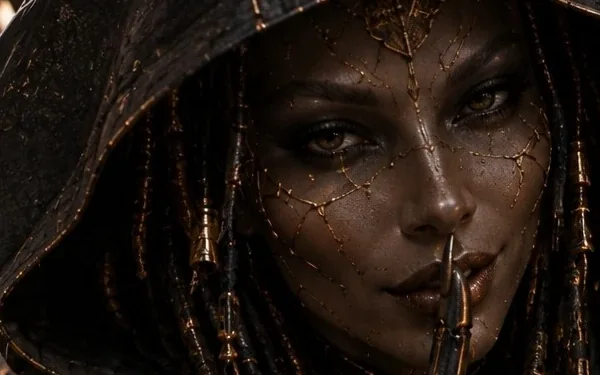
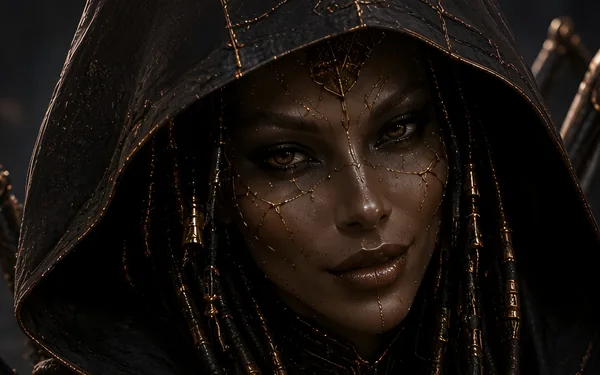
Tiroir des outils : pied fixe en bas (tâches, U*TTU, langue), liste qui défile seule, plus de trou après « Panorama 360° » ; portrait HD v2 d'Uttu dans le studio
- Tiroir (< 1024 px) : colonne flex tête / liste (overflow auto, marge basse) / pied avec fond et filet ; plus aucun chevauchement. Règle .u-drawer héritée (inset: 0) retirée : le tiroir s'ouvre à droite, sous le bouton menu.
- Menu Créer dans le tiroir : une famille = une liste (plus de colonne vide avec titre insécable).
- Accueil du studio : portrait HD v2 (sans doigt), 600/960 px en hauteur et 600/1200 px en large, srcset.
- e2e/tiroir-outils.spec.ts : 390×844, 844×390, 880×1024, haut/milieu/bas, cibles 44 px.

diff --git a/src/components/app/app.css b/src/components/app/app.css
@@ -46,7 +46,6 @@
 .u-mark { display: inline-flex; align-items: center; gap: 10px; min-height: 44px; color: var(--fg); }
 .u-top-tools { display: flex; align-items: center; gap: 6px; min-width: 0; }
 .u-tool-short { display: none; }
-.u-drawer-lang { display: none; }
 @media (max-width: 799px) {
   .u-top { flex-wrap: nowrap; gap: 8px; padding: 6px 10px; min-height: 56px; }
   .u-mark { gap: 6px; flex: 0 0 auto; }
@@ -57,7 +56,6 @@
   .u-tool-label, .u-tool-full { display: none; }
   .u-tool-short { display: inline; letter-spacing: .04em; }
   .u-coffre, .u-credit { min-width: 44px; justify-content: center; padding-inline: 10px; }
-  .u-drawer-lang { display: block; }
 }
 .u-credit { display: inline-flex; align-items: center; gap: 6px; min-height: 44px; padding: 8px 14px; border: 1px solid var(--u-line-strong); border-radius: var(--radius-control); background: transparent; }
 .u-credit strong { font: 600 14px/1 var(--font-mono); font-variant-numeric: tabular-nums; color: var(--fg); }
@@ -365,7 +363,6 @@
   .u-head h1 { font-size: 44px; }
   .u-board { grid-template-columns: repeat(auto-fit, minmax(min(100%, 300px), 1fr)); }
   .u-prise-grid { grid-template-columns: minmax(180px, 280px) minmax(0, 1fr); align-items: start; }
-  .u-drawer-panel { width: min(460px, 100%); margin-left: auto; height: 100%; max-height: 100%; border-radius: 0; border-left: 1px solid var(--u-line); }
   .u-grid { grid-template-columns: repeat(4, minmax(0, 1fr)); }
   .u-plateau { display: none; }
   .u-rail-coffre { display: none; }
@@ -401,11 +398,6 @@
 .u-person, .u-place { display: grid; gap: 10px; align-content: start; padding: 12px; border: 1px solid var(--u-line); border-radius: 12px; background: var(--surface); }
 .u-place[data-selected="true"] { border-color: var(--u-gold); }
 .u-pick-row small { color: var(--u-sand); font-size: 12px; letter-spacing: .08em; text-transform: uppercase; }
-.u-drawer { position: fixed; inset: 0; z-index: 70; display: flex; }
-.u-drawer-back { flex: 1 1 auto; min-width: 0; min-height: 44px; border: 0; background: rgba(15, 15, 17, .62); }
-.u-drawer-panel { width: 100%; height: 100%; overflow: auto; padding: 16px 18px calc(24px + var(--u-safe)); background: var(--surface); border-left: 1px solid var(--u-line); }
-.u-drawer-body { display: grid; gap: 22px; }
-.u-drawer-body h3 { margin: 0; }
 .u-decor-grid { display: grid; grid-template-columns: repeat(2, minmax(0, 1fr)); gap: 12px; }
 .u-decor-card { position: relative; display: grid; gap: 8px; align-content: start; padding: 8px; border: 1px solid var(--u-line); border-radius: 12px; background: var(--surface); }
 .u-decor-card[data-selected="true"] { border-color: var(--u-gold); box-shadow: inset 0 0 0 1px var(--u-gold); }
@@ -1583,8 +1575,10 @@ button.u-outil-card:focus-visible { outline: 2px solid var(--fg); outline-offset
 .u-palette-body a, .u-assistant-list a { display: grid; gap: 2px; min-height: 44px; padding: 8px 10px; border-radius: 10px; color: var(--fg); text-decoration: none; }
 .u-palette-body a:hover, .u-palette-body a:focus-visible, .u-assistant-list a:hover { background: var(--hover); outline: none; }
 .u-palette-body a span, .u-assistant-list a span { font-size: 12px; color: var(--fg-2); }
-.u-drawer { position: absolute; top: 0; right: 0; bottom: 0; width: min(360px, 92vw); display: grid; grid-template-rows: auto minmax(0, 1fr) auto; gap: 8px; padding: 12px; background: var(--bg); border-left: 1px solid var(--u-line); overflow-y: auto; }
-.u-drawer-head { display: flex; align-items: flex-start; justify-content: space-between; gap: 8px; }
+/* Drawer (below 1024 px): fixed head, the list scrolls on its own, the footer stays pinned at the bottom and never covers the list. */
+.u-drawer { position: absolute; top: 0; right: 0; bottom: 0; width: min(360px, 92vw); height: 100%; display: flex; flex-direction: column; background: var(--bg); border-left: 1px solid var(--u-line); overflow: hidden; }
+.u-drawer-head { flex: 0 0 auto; display: flex; align-items: flex-start; justify-content: space-between; gap: 8px; padding: 12px 12px 4px; }
+.u-drawer-nav { flex: 1 1 auto; min-height: 0; overflow-y: auto; overscroll-behavior: contain; -webkit-overflow-scrolling: touch; padding: 4px 12px 32px; scroll-padding-bottom: 32px; }
 .u-drawer-head .u-proj { flex: 1 1 auto; }
 .u-drawer-nav .u-top-links { flex-direction: column; align-items: stretch; }
 .u-drawer-nav .u-top-links > li > a, .u-drawer-nav .u-dd-toggle { width: 100%; justify-content: space-between; font-size: 16px; }
@@ -1597,8 +1591,13 @@ button.u-outil-card:focus-visible { outline: 2px solid var(--fg); outline-offset
 .u-lien.u-fold .u-avance-body { display: grid; gap: 10px; padding-bottom: 12px; }
 .u-lien.u-fold .u-avance-body[hidden] { display: none; }
 .u-empty .u-primary { min-height: 44px; display: inline-flex; align-items: center; }
-.u-drawer-foot { display: grid; gap: 8px; }
-.u-drawer-foot .u-secondary { min-height: 44px; }
+.u-drawer-foot { flex: 0 0 auto; position: relative; z-index: 1; display: flex; align-items: center; gap: 8px; padding: 10px 12px calc(10px + var(--u-safe)); border-top: 1px solid var(--u-line); background: var(--surface); }
+.u-drawer-foot .u-secondary { flex: 1 1 auto; min-width: 0; min-height: 44px; }
+.u-drawer-foot .u-tasks { flex: 0 0 auto; }
+.u-drawer-foot .u-tasks .u-top-icon { min-width: 44px; min-height: 44px; }
+.u-drawer-foot .u-tasks .u-tool-label { display: none; }
+.u-drawer-foot .u-lang { flex: 0 0 auto; }
+.u-drawer-foot .u-tasks-panel { top: auto; bottom: calc(100% + 8px); left: 0; right: auto; width: min(336px, calc(92vw - 24px)); max-height: 60dvh; }
 /* Assistant on the right, on every page. From 1600 px the page makes room for it;
    below, it floats over the page (closable) so CAST, the gallery and the stages are never squeezed or cut. */
 .u-assistant { position: fixed; z-index: 45; top: 64px; right: 0; bottom: 0; width: 320px; display: flex; flex-direction: column; gap: 12px; padding: 14px; border-left: 1px solid var(--u-line); background: var(--bg); overflow-y: auto; }

diff --git a/e2e/tiroir-outils.spec.ts b/e2e/tiroir-outils.spec.ts
@@ -1,0 +1,53 @@
+import { expect, test } from "@playwright/test";
+
+// The burger drawer (below 1024 px): the tool list scrolls on its own, the footer
+// (tasks, U*TTU, language) stays pinned at the bottom and never covers a tool,
+// and a family is one list with no empty heading gap.
+
+const SIZES = [[390, 844], [844, 390], [880, 1024]] as const;
+
+for (const [width, height] of SIZES) {
+  test(`tiroir ${width}×${height} : pied fixe, liste qui défile, aucun chevauchement`, async ({ page }) => {
+    await page.setViewportSize({ width, height });
+    await page.emulateMedia({ reducedMotion: "reduce" });
+    await page.goto("/studio");
+    await page.locator("[data-top-burger]").click();
+    const drawer = page.locator("[data-drawer]");
+    await drawer.locator("[data-top-menu=creer]").click();
+    await expect(drawer.locator("[data-mega-outil]").first()).toBeVisible();
+    await expect(drawer.locator(".u-mega h2").filter({ hasText: /^\s*$/ })).toHaveCount(0);
+    for (const pos of ["top", "middle", "bottom"] as const) {
+      const result = await drawer.evaluate((root, pos) => {
+        const nav = root.querySelector<HTMLElement>(".u-drawer-nav")!;
+        const max = nav.scrollHeight - nav.clientHeight;
+        nav.scrollTop = pos === "top" ? 0 : pos === "middle" ? max / 2 : max;
+        const box = nav.getBoundingClientRect();
+        const foot = root.querySelector(".u-drawer-foot")!.getBoundingClientRect();
+        const drawerBox = root.getBoundingClientRect();
+        const items = [...nav.querySelectorAll("a, button")].map(item => item.getBoundingClientRect());
+        return {
+          scrolls: max > 0 && getComputedStyle(nav).overflowY === "auto",
+          navEndsAtFoot: Math.abs(box.bottom - foot.top) <= 1,
+          footAtBottom: Math.abs(foot.bottom - drawerBox.bottom) <= 1 && foot.bottom <= innerHeight + 1,
+          lastClear: items.at(-1)!.bottom <= foot.top,
+          targets: [...root.querySelectorAll("a, button, select")].map(item => item.getBoundingClientRect()).filter(r => r.width && r.height).every(r => r.height >= 44 && r.width >= 44),
+          overflow: document.documentElement.scrollWidth > innerWidth,
+        };
+      }, pos);
+      expect(result.scrolls).toBe(true);
+      expect(result.navEndsAtFoot).toBe(true);
+      expect(result.footAtBottom).toBe(true);
+      if (pos === "bottom") expect(result.lastClear).toBe(true);
+      expect(result.targets).toBe(true);
+      expect(result.overflow).toBe(false);
+    }
+    for (const sel of ["[data-top-tasks]", "[data-drawer-assistant]", ".u-drawer-foot select"]) await expect(drawer.locator(sel)).toBeInViewport({ ratio: 1 });
+  });
+}
+
+test("accueil du studio : portrait HD v2 d'Uttu, en srcset", async ({ page }) => {
+  await page.goto("/studio");
+  const img = page.locator("[data-entry-uttu] img");
+  await expect(img).toHaveAttribute("srcset", /uttu-portrait-960\.webp 960w/);
+  await expect(page.locator("[data-entry-uttu] source")).toHaveAttribute("srcset", /uttu-portrait-large-1200\.webp 1200w/);
+});

diff --git a/src/components/app/top-bar.tsx b/src/components/app/top-bar.tsx
@@ -124,7 +124,7 @@ function MainNav({ place, drawer = false, onPick }: { place: Place; drawer?: boo
   const current = (here: Place) => place === here ? "page" as const : undefined;
   return <ul className="u-top-links" role="list">
     <li><a href={assetPath("/")} onClick={onPick} aria-current={current("accueil")}>{t("top.home")}</a></li>
-    <li><Dropdown id="creer" label={t("top.create")} current={place === "creer"} drawer={drawer}>{close => <CreerMenu onPick={() => { close(); onPick?.(); }} />}</Dropdown></li>
+    <li><Dropdown id="creer" label={t("top.create")} current={place === "creer"} drawer={drawer}>{close => <CreerMenu drawer={drawer} onPick={() => { close(); onPick?.(); }} />}</Dropdown></li>
     <li><Dropdown id="film" label={t("top.film")} current={place === "realiser" || place === "montage"} drawer={drawer}>{close => <FilmMenu onPick={() => { close(); onPick?.(); }} />}</Dropdown></li>
     <li><Dropdown id="creations" label={t("top.creations")} current={place === "creations"} drawer={drawer}>{close => <CreationsMenu onPick={() => { close(); onPick?.(); }} />}</Dropdown></li>
   </ul>;
@@ -151,7 +151,7 @@ function FilmMenu({ onPick }: { onPick(): void }) {
   </ul>;
 }
 
-function CreerMenu({ onPick }: { onPick(): void }) {
+function CreerMenu({ onPick, drawer = false }: { onPick(): void; drawer?: boolean }) {
   const { t } = useI18n();
   const { prefs } = useStudio();
   const cards = outilsPublics(prefs);
@@ -159,7 +159,8 @@ function CreerMenu({ onPick }: { onPick(): void }) {
     <div className="u-mega-cols">
       {FAMILLES.flatMap(fam => {
         const items = cards.filter(item => familleVitrine(item) === fam);
-        return colonnes(items, 8).map((col, index) => <section key={`${fam}-${index}`} className="u-mega-col" aria-label={index === 0 ? t(`outils.fam.${fam}`) : undefined}>
+        // In the drawer a family is one list: split columns would leave an empty heading gap.
+        return colonnes(items, drawer ? Math.max(items.length, 1) : 8).map((col, index) => <section key={`${fam}-${index}`} className="u-mega-col" aria-label={index === 0 ? t(`outils.fam.${fam}`) : undefined}>
           <h2>{index === 0 ? t(`outils.fam.${fam}`) : "\u00a0"}</h2>
           <ul role="list">
             {col.map(item => <li key={item.id}><MegaItem outil={item} onPick={onPick} /></li>)}

diff --git a/src/components/app/studio-entry.tsx b/src/components/app/studio-entry.tsx
@@ -10,7 +10,7 @@ import { useI18n } from "@/components/i18n/provider";
 import { formatCredits } from "@/lib/credits";
 import { FAMILLES, cherche, familleVitrine, intentDe, outilParId, outilRow, outilsPublics, type Famille, type Outil } from "@/lib/outils/catalogue";
 import { routePrompt } from "@/lib/outils/route";
-import { REPERAGE_ID, UTTU_PORTRAIT, UTTU_PORTRAIT_WIDE, vignette } from "@/lib/outils/vignettes";
+import { REPERAGE_ID, UTTU_PORTRAIT, UTTU_PORTRAIT_HD, UTTU_PORTRAIT_WIDE, UTTU_PORTRAIT_WIDE_HD, vignette } from "@/lib/outils/vignettes";
 import { assetPath } from "@/lib/site";
 import { FamilyIcon, scrollToFamily } from "./studio-nav";
 import { useStudio } from "./studio-session";
@@ -111,8 +111,8 @@ export function StudioHome() {
       </header>
       <figure className="u-hero-uttu" data-entry-uttu="">
         <picture>
-          <source media="(max-width: 899px)" srcSet={assetPath(UTTU_PORTRAIT_WIDE)} width={600} height={375} />
-          <img src={assetPath(UTTU_PORTRAIT)} alt={t("entry.uttuAlt")} width={600} height={900} decoding="async" fetchPriority="high" />
+          <source media="(max-width: 899px)" srcSet={`${assetPath(UTTU_PORTRAIT_WIDE)} 600w, ${assetPath(UTTU_PORTRAIT_WIDE_HD)} 1200w`} sizes="100vw" width={600} height={375} />
+          <img src={assetPath(UTTU_PORTRAIT)} srcSet={`${assetPath(UTTU_PORTRAIT)} 600w, ${assetPath(UTTU_PORTRAIT_HD)} 960w`} sizes="(min-width: 900px) 420px, 100vw" alt={t("entry.uttuAlt")} width={600} height={900} decoding="async" fetchPriority="high" />
         </picture>
         <figcaption>Uttu</figcaption>
       </figure>

diff --git a/src/lib/outils/vignettes.ts b/src/lib/outils/vignettes.ts
@@ -19,5 +19,8 @@ export function vignette(id: string): string | null {
 }
 
 /** Uttu, the studio's character: the canon portrait, cropped so only she is in frame. */
+// Uttu, HD portrait v2 (2026-10-23): 600 × 900 and 960 × 1440 upright, 600 × 375 and 1200 × 750 wide.
 export const UTTU_PORTRAIT = "/images/uttu-portrait.webp";
+export const UTTU_PORTRAIT_HD = "/images/uttu-portrait-960.webp";
 export const UTTU_PORTRAIT_WIDE = "/images/uttu-portrait-large.webp";
+export const UTTU_PORTRAIT_WIDE_HD = "/images/uttu-portrait-large-1200.webp";
